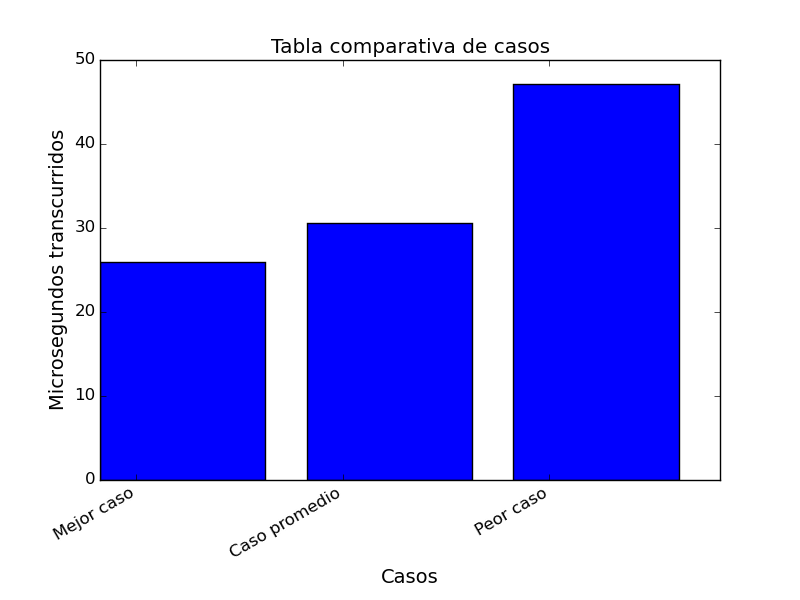
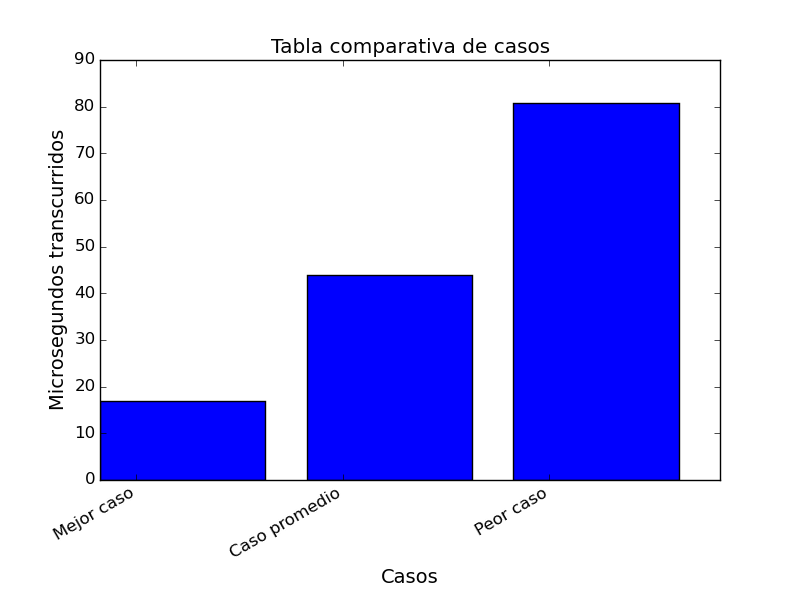
i hope its the last piola

diff --git a/tp2/informe/informe_ej3.tex b/tp2/informe/informe_ej3.tex
@@ -395,16 +395,12 @@ Esto nos asegura llegar al nodo destino usando el menor m\'inimo de aristas posi
 
 \subsection{Tests de correctitud}
 
-Para comprobar la correctitud de forma emp\'irica de nuestro programa, construimos unos casos de prueba, un caso promedio, un peor caso y un mejor caso. A continuaci\'on se listan los casos.
+Para comprobar la correctitud de forma emp\'irica de nuestro programa, construimos unos casos de prueba, un caso promedio, un peor caso y un mejor caso. A continuaci\'on se listan los casos y sus resultados.
 
-Caso Promedio:
+\begin{center}
+\includegraphics[scale=0.6]{images/casosListed}
+\end{center}
 
-5 0 0 1 2 0
-3 4 1 1 1
-1 1 1 1 3
-2 4 2 2 2
-1 2 1 1 4
-1 2 2 1 1
 
 \begin{center}
 \includegraphics[scale=0.5]{images/casosej3}
@@ -417,7 +413,7 @@ Compilador GJC: Java realiza un profiling sobre el programa a compilar y toma es
 
 Interpretacion de los graficos: Como se puede ver en los graficos, la complejidad empirica, coincide con la complejidad teorica esperada $O(k*n^3)$, llegamos a esta conclusion graficando los siguientes casos: $k$ = $[0..5]$ $n$ = $[2..100]$ para cada caso, se realizaron 3 graficos, $(X,F(X))$,  $(X,F(X)/x^2)$ y $(X,F(X)/x^3)$. En estos graficos se puede observar que al dividir por $x^2$ se obtiene una curva con crecimiento lineal aproximado, y al dividir por $x^3$, se obtiene una constante aproximada, es decir, una curva acotada entre una diferencia pequena en el eje X, concluyendo que la curva inicial corresponde a una funcion $f(n)$ = $q.n^3$, con $q$ en $R$. Asimismo veamos que cuando se incrementa el valor de $k$ para los graficos anteriores, la imagen de las funciones graficadas crecen linealmente a medida que crece $k$. Lo que nos indica que en realidad las funciones graficadas son realmente $f(n)$ = $j.(k.n^3)$, con $j$ en $R$, concluyendo, $f(n)$ $\in$ $O(k*n^3)$. Referencia: http://www.excelsior-usa.com/jetcs00007.html
 
-\vspace{2mm}
+\vspace{200mm}
 
 Con k = 0
 
